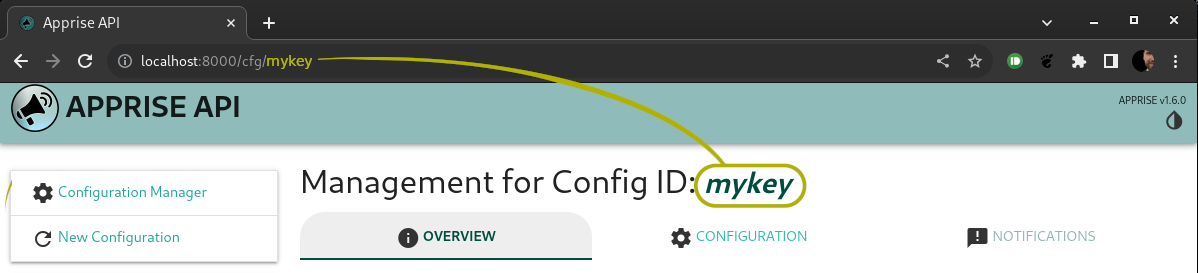
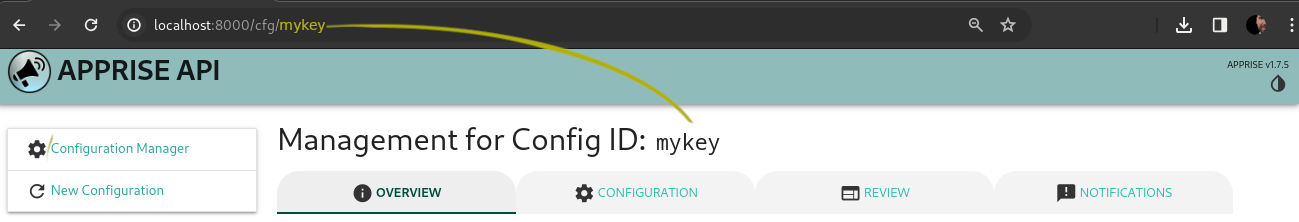
Improved documentation

diff --git a/apprise_api/api/templates/config.html b/apprise_api/api/templates/config.html
@@ -154,7 +154,7 @@
     </div>
     <div class="section has-config">
       <h5>{% trans "Loaded Configuration" %}</h5>
-       <p>{% blocktrans %}<strong>Tip:</strong> Click on a tag (🏷) to pre-select in the <strong><i class="material-icons">announcement</i>Notifications</strong> section with the tag already pre-selected.{% endblocktrans %}</p>
+       <p>{% blocktrans %}<strong>Tip:</strong> Click on a tag (🏷) to pre-select it in the <strong><i class="material-icons">announcement</i>Notifications</strong> section.{% endblocktrans %}</p>
       <div id="url-list"></div>
       <div id="url-list-progress" class="progress" style="width:70%">
         <div class="indeterminate"></div>

diff --git a/README.md b/README.md
@@ -24,8 +24,11 @@ There is a small built-in *Configuration Manager* that can be optionally accesse
 Below is a screenshot of how you can assign your Apprise URLs to your `{KEY}`. You can define both TEXT or YAML [Apprise configurations](https://github.com/caronc/apprise/wiki/config).<br/>
 ![Screenshot of GUI - Configuration](https://raw.githubusercontent.com/caronc/apprise-api/master/Screenshot-2.png)
 
-Once you've saved your configuration, you'll be able to use the *Notification* tab to send your messages to one or more of the services you defined in your configuration. You can use the tag `all` to notify all of your services regardless of what tag had otherwise been assigned to them.
-![Screenshot of GUI - Notifications](https://raw.githubusercontent.com/caronc/apprise-api/master/Screenshot-3.png)
+Below is a screenshot of the review tab where you can preview what Apprise URL(s) got loaded from your defined configuration. It also allows you to view the tags associated with them (if any).<br/>
+![Screenshot of GUI - Review](https://raw.githubusercontent.com/caronc/apprise-api/master/Screenshot-3.png)
+
+Once you've saved your configuration, you'll be able to use the *Notification* tab to send your messages to one or more of the services you defined in your configuration. You can use the tag `all` to notify all of your services regardless of what tag had otherwise been assigned to them.<br/>
+![Screenshot of GUI - Notifications](https://raw.githubusercontent.com/caronc/apprise-api/master/Screenshot-4.png)
 
 At the end of the day, the GUI just simply offers a user friendly interface to the same API developers can directly interface with if they wish to.
 
